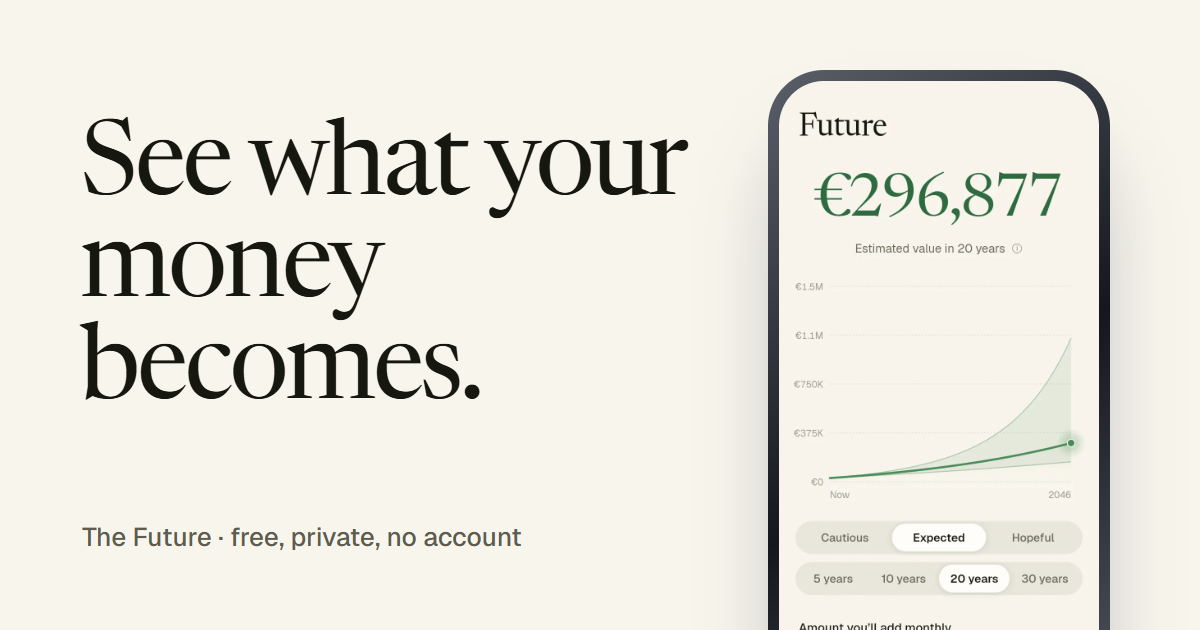
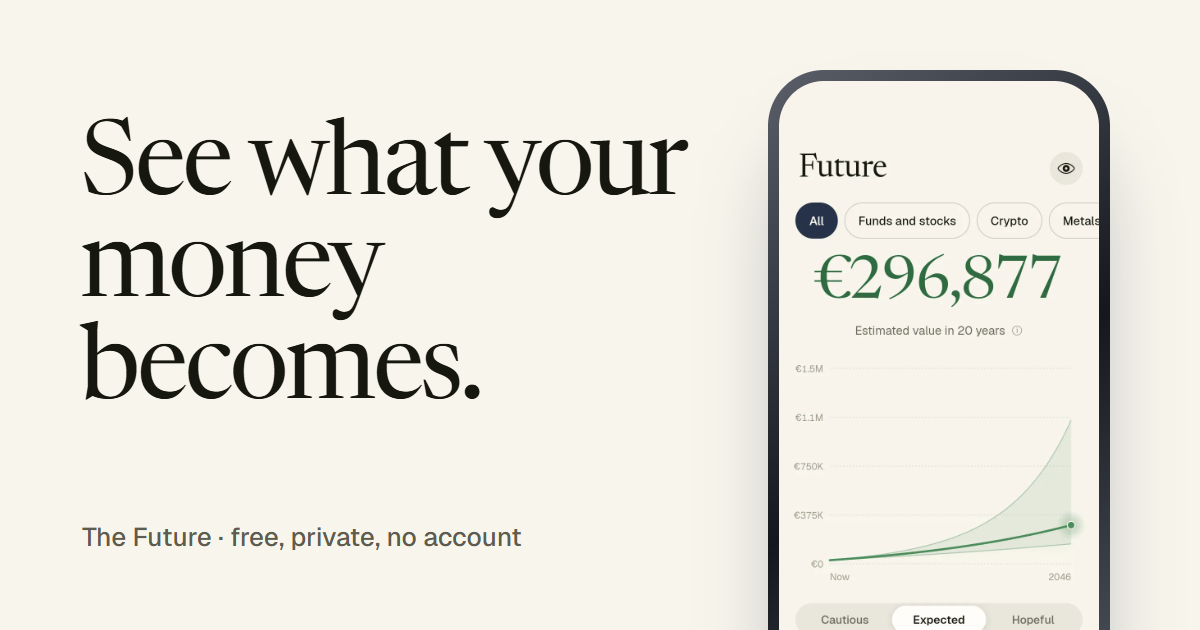
feat: compare the plan with a savings account in the app and on the landing page
Same money and monthly amount, kept as cash, in a savings account (1.25%, Raiffeisen Online Sparen, editable) or invested. Landing screenshots redone with the new icon.

diff --git a/lib/ui/savings.dart b/lib/ui/savings.dart
@@ -1,0 +1,100 @@
+import 'package:flutter/widgets.dart';
+
+import '../format.dart';
+import '../projection.dart';
+import '../state.dart';
+import '../theme.dart';
+import 'lists.dart';
+
+/// The same money three ways, in plain words: kept as cash, in a savings
+/// account, or invested as planned. Bars grow from zero so the gap is the point.
+class SavingsCompare extends StatelessWidget {
+  const SavingsCompare(this.state, {super.key, required this.plan, required this.cautious, required this.savings});
+
+  final AppState state;
+  final Projection plan;
+  final Projection cautious;
+  final Projection savings;
+
+  @override
+  Widget build(BuildContext context) {
+    final cash = plan.contributed.last;
+    final top = [plan.end, savings.end, cash].reduce((a, b) => a > b ? a : b);
+    final gap = plan.end - savings.end;
+    final rate = state.savingsRate;
+    final rateText = '${rate.toStringAsFixed(rate % 1 == 0 ? 0 : (rate * 10) % 1 == 0 ? 1 : 2)}%';
+    final bank = rate == defaultSavingsRate ? 'a Raiffeisen savings account' : 'a savings account at $rateText';
+    return Group(
+      header: 'VERSUS A SAVINGS ACCOUNT',
+      footer: 'Savings rate: $rateText a year, what Raiffeisen Online Sparen pays at several regional banks in October 2026. Other banks pay more or less, so you can change it under Assumptions. Before tax. Savings are protected up to €100,000; investments can lose value.',
+      children: [
+        Padding(
+          padding: const EdgeInsets.fromLTRB(18, 18, 18, 8),
+          child: Column(
+            crossAxisAlignment: CrossAxisAlignment.start,
+            children: [
+              Text(
+                gap >= 0 ? 'Investing as planned ends ${eur(gap)} ahead of $bank.' : 'In this case $bank ends ${eur(-gap)} ahead.',
+                style: serif(24, height: 1.12, tracking: -0.4),
+              ),
+              const SizedBox(height: 6),
+              Text('Same money, same ${eur(state.monthly)} a month, ${state.years} years.', style: sans(13.5, color: C.ink2)),
+              const SizedBox(height: 20),
+              _Bar('Kept as cash', 'No growth, just what you put in', cash, top, C.sand),
+              _Bar('Savings account', 'Grows slowly and safely', savings.end, top, C.navy),
+              _Bar('Invested as planned', 'Grows more, with ups and downs', plan.end, top, C.green, strong: true),
+              const SizedBox(height: 6),
+              Text(
+                cautious.end < savings.end ? 'In the cautious case it would end ${eur(savings.end - cautious.end)} behind. That is the price of a higher return.' : 'Even in the cautious case it ends ${eur(cautious.end - savings.end)} ahead.',
+                style: sans(13, color: C.ink2, height: 1.4),
+              ),
+            ],
+          ),
+        ),
+      ],
+    );
+  }
+}
+
+class _Bar extends StatelessWidget {
+  const _Bar(this.title, this.note, this.value, this.top, this.color, {this.strong = false});
+
+  final String title;
+  final String note;
+  final double value;
+  final double top;
+  final Color color;
+  final bool strong;
+
+  @override
+  Widget build(BuildContext context) => Padding(
+        padding: const EdgeInsets.only(bottom: 16),
+        child: Column(
+          crossAxisAlignment: CrossAxisAlignment.start,
+          children: [
+            Row(
+              crossAxisAlignment: CrossAxisAlignment.baseline,
+              textBaseline: TextBaseline.alphabetic,
+              children: [
+                Expanded(child: Text(title, style: sans(15, weight: strong ? FontWeight.w500 : FontWeight.w400))),
+                Text(eur(value), style: figures(sans(16, weight: FontWeight.w500, color: strong ? C.greenInk : C.ink))),
+              ],
+            ),
+            const SizedBox(height: 2),
+            Text(note, style: sans(12.5, color: C.ink2)),
+            const SizedBox(height: 8),
+            TweenAnimationBuilder<double>(
+              tween: Tween(begin: 0, end: top <= 0 ? 0 : (value / top).clamp(0, 1)),
+              duration: const Duration(milliseconds: 700),
+              curve: Curves.easeOutCubic,
+              builder: (_, f, _) => Container(
+                height: 10,
+                alignment: Alignment.centerLeft,
+                decoration: BoxDecoration(color: C.ink.withValues(alpha: 0.06), borderRadius: BorderRadius.circular(5)),
+                child: FractionallySizedBox(widthFactor: f, heightFactor: 1, child: DecoratedBox(decoration: BoxDecoration(color: color, borderRadius: BorderRadius.circular(5)))),
+              ),
+            ),
+          ],
+        ),
+      );
+}

diff --git a/lib/state.dart b/lib/state.dart
@@ -48,6 +48,7 @@ class AppState extends ChangeNotifier with WidgetsBindingObserver {
   bool realTerms = false;
   double raisePercent = 0;
   double inflation = defaultInflation;
+  double savingsRate = defaultSavingsRate;
   Returns returns = {for (final e in defaultReturns.entries) e.key: [...e.value]};
   List<OneOffEntry> oneOffs = [];
 
@@ -89,6 +90,22 @@ class AppState extends ChangeNotifier with WidgetsBindingObserver {
       monthly: monthlyAmount ?? monthly,
       months: (yearsAhead ?? years) * 12,
       yearlyReturn: {for (final k in Kind.values) k: returns[k]![scenario]},
+      raisePercent: raisePercent,
+      oneOffs: _oneOffsNow,
+      realTerms: realTerms,
+      inflation: inflation,
+    );
+  }
+
+  /// The same money and the same monthly amount, left in a savings account.
+  Projection savingsFor() {
+    final s = snapshot!;
+    return project(
+      start: {for (final k in active) k: s.valueOf(k)},
+      mix: s.mixFor(active),
+      monthly: monthly,
+      months: years * 12,
+      yearlyReturn: {for (final k in Kind.values) k: savingsRate},
       raisePercent: raisePercent,
       oneOffs: _oneOffsNow,
       realTerms: realTerms,
@@ -230,6 +247,7 @@ class AppState extends ChangeNotifier with WidgetsBindingObserver {
     realTerms = false;
     raisePercent = 0;
     inflation = defaultInflation;
+    savingsRate = defaultSavingsRate;
     returns = {for (final e in defaultReturns.entries) e.key: [...e.value]};
     notifyListeners();
   }
@@ -275,6 +293,7 @@ class AppState extends ChangeNotifier with WidgetsBindingObserver {
     bool? realTerms,
     double? raisePercent,
     double? inflation,
+    double? savingsRate,
     Returns? returns,
     List<OneOffEntry>? oneOffs,
   }) {
@@ -284,6 +303,7 @@ class AppState extends ChangeNotifier with WidgetsBindingObserver {
     this.realTerms = realTerms ?? this.realTerms;
     this.raisePercent = raisePercent ?? this.raisePercent;
     this.inflation = inflation ?? this.inflation;
+    this.savingsRate = savingsRate ?? this.savingsRate;
     this.returns = returns ?? this.returns;
     this.oneOffs = oneOffs ?? this.oneOffs;
     notifyListeners();
@@ -302,6 +322,7 @@ class AppState extends ChangeNotifier with WidgetsBindingObserver {
         'real': realTerms,
         'raise': raisePercent,
         'inflation': inflation,
+        'savings': savingsRate,
         'returns': {for (final e in returns.entries) e.key.name: e.value},
         'oneOffs': [
           for (final o in oneOffs) [o.year, o.month, o.amount],
@@ -321,6 +342,7 @@ class AppState extends ChangeNotifier with WidgetsBindingObserver {
       realTerms = j['real'] as bool? ?? false;
       raisePercent = (j['raise'] as num?)?.toDouble() ?? 0;
       inflation = (j['inflation'] as num?)?.toDouble() ?? defaultInflation;
+      savingsRate = (j['savings'] as num?)?.toDouble() ?? defaultSavingsRate;
       final r = j['returns'] as Map<String, dynamic>?;
       if (r != null) {
         returns = {

diff --git a/landing/index.html b/landing/index.html
@@ -42,7 +42,7 @@
     <section id="try">
       <div class="wrap">
         <h2 class="head" data-blur>Add a little more each month.</h2>
-        <p class="rise">This is the same calculation the app runs, with a plain start amount instead of your portfolio. Slide, and the twenty years change.</p>
+        <p class="rise">This is the same calculation the app runs, with a plain start amount instead of your portfolio. Slide, and the twenty years change, next to the same money in a savings account.</p>
 
         <form class="calc" id="calc" autocomplete="off">
           <div>
@@ -60,6 +60,10 @@
                 <label><input type="radio" name="years" value="30"><span>30</span></label>
               </div>
             </fieldset>
+            <label class="field" for="rate"><span class="lab">A savings account pays</span>
+              <span class="money"><input id="rate" inputmode="decimal" value="1.25" aria-label="Savings account interest in percent a year"><span aria-hidden="true">% a year</span></span>
+              <small class="hint">1.25% is what Raiffeisen Online Sparen pays at several regional banks (October 2026). Other banks pay more or less. Before tax.</small>
+            </label>
             <fieldset class="field"><legend>How it goes</legend>
               <div class="seg">
                 <label><input type="radio" name="case" value="0"><span>Cautious</span></label>
@@ -79,6 +83,12 @@
               <li><span>You add <small id="addNote" style="color:var(--ink-3)"></small></span><span class="num" id="add">+€75,000</span></li>
               <li class="grow"><span>It grows by</span><span class="num" id="grow">+€0</span></li>
             </ul>
+            <div class="vs" aria-live="polite">
+              <p class="vs-h" id="vsHead">Investing ends ahead of a savings account.</p>
+              <div class="bar"><div><span>Kept as cash</span><span class="num" id="vsCash"></span></div><i><b id="bCash" class="sand"></b></i></div>
+              <div class="bar"><div><span>Savings account</span><span class="num" id="vsSave"></span></div><i><b id="bSave" class="navy"></b></i></div>
+              <div class="bar"><div><span>Invested</span><span class="num green" id="vsInv"></span></div><i><b id="bInv" class="green"></b></i></div>
+            </div>
             <p class="note">Cautious, expected and hopeful mean 3%, 6.5% and 9% a year, as for a world ETF. Crypto has its own, much wider range in the app, and you can change all of them. A projection, not a forecast: taxes and fees are left out, and you can lose money.</p>
           </div>
         </form>

diff --git a/lib/screens/plan.dart b/lib/screens/plan.dart
@@ -44,7 +44,7 @@ class _Round extends StatelessWidget {
       );
 }
 
-String _pct(double v) => '${v < 0 ? '−' : ''}${v.abs().toStringAsFixed(v % 1 == 0 ? 0 : 1)}%';
+String _pct(double v) => '${v < 0 ? '−' : ''}${v.abs().toStringAsFixed(v % 1 == 0 ? 0 : (v * 10) % 1 == 0 ? 1 : 2)}%';
 
 /// Returns per asset type and scenario, inflation and the yearly raise.
 class AssumptionsSheet extends StatelessWidget {
@@ -82,6 +82,7 @@ class AssumptionsSheet extends StatelessWidget {
                       trailing: Switch2(on: state.realTerms, onChanged: (v) => state.setPlan(realTerms: v)),
                     ),
                     Row2(title: 'Inflation', trailing: _Stepper(text: _pct(state.inflation), onMinus: () => state.setPlan(inflation: (state.inflation - 0.5).clamp(0, 10)), onPlus: () => state.setPlan(inflation: (state.inflation + 0.5).clamp(0, 10)))),
+                    Row2(title: 'Savings account rate', subtitle: 'What the comparison with a savings account pays a year', trailing: _Stepper(text: _pct(state.savingsRate), onMinus: () => state.setPlan(savingsRate: (state.savingsRate - 0.25).clamp(0, 10)), onPlus: () => state.setPlan(savingsRate: (state.savingsRate + 0.25).clamp(0, 10)))),
                     Row2(title: 'Yearly raise', subtitle: 'Add more each year, such as with your pay', trailing: _Stepper(text: _pct(state.raisePercent), onMinus: () => state.setPlan(raisePercent: (state.raisePercent - 1).clamp(0, 30)), onPlus: () => state.setPlan(raisePercent: (state.raisePercent + 1).clamp(0, 30)))),
                   ],
                 ),
@@ -102,7 +103,7 @@ class AssumptionsSheet extends StatelessWidget {
               SliverToBoxAdapter(
                 child: Padding(
                   padding: const EdgeInsets.fromLTRB(20, 0, 20, 0),
-                  child: AppButton('Back to defaults', filled: false, onTap: () => state.setPlan(returns: {for (final e in defaultReturns.entries) e.key: [...e.value]}, inflation: defaultInflation, raisePercent: 0, realTerms: false)),
+                  child: AppButton('Back to defaults', filled: false, onTap: () => state.setPlan(returns: {for (final e in defaultReturns.entries) e.key: [...e.value]}, inflation: defaultInflation, savingsRate: defaultSavingsRate, raisePercent: 0, realTerms: false)),
                 ),
               ),
               SliverToBoxAdapter(child: SizedBox(height: 40 + browserSafeArea().bottom)),

diff --git a/landing/assets/site.js b/landing/assets/site.js
@@ -76,6 +76,15 @@ if (form) {
     $('grow').textContent = '+' + eur(end - start - put);
     $('addNote').textContent = eur(monthly) + ' a month for ' + years + ' years';
 
+    // Versus a savings account: same money, same months, a lower and safer return.
+    const rate = Math.min(10, Math.max(0, parseFloat($('rate').value.replace(',', '.')) || 0));
+    const save = series(start, monthly, months, rate)[months];
+    const cash = start + put;
+    const top = Math.max(end, save, cash) || 1;
+    $('vsCash').textContent = eur(cash); $('vsSave').textContent = eur(save); $('vsInv').textContent = eur(end);
+    $('bCash').style.width = (cash / top) * 100 + '%'; $('bSave').style.width = (save / top) * 100 + '%'; $('bInv').style.width = (end / top) * 100 + '%';
+    $('vsHead').textContent = end >= save ? 'Investing ends ' + eur(end - save) + ' ahead of a savings account.' : 'In this case the savings account ends ' + eur(save - end) + ' ahead.';
+
     // Chart: band between cautious and hopeful, the picked case as the line.
     const W = Math.round($('chart').getBoundingClientRect().width) || 640, H = W < 480 ? 250 : 300, L = 46, T = 10, B = 28, R = 12;
     $('chart').setAttribute('viewBox', '0 0 ' + W + ' ' + H);

diff --git a/landing/assets/site.css b/landing/assets/site.css
@@ -145,3 +145,19 @@ footer p { max-width: 62em; }
   .js .w, .js .rise { opacity: 1; filter: none; transform: none; transition: none; }
   .btn { transition: none; }
 }
+
+/* Versus a savings account */
+.hint { display: block; margin-top: 10px; font-size: 15px; color: var(--ink-3); line-height: 1.45; }
+.money input#rate { padding: 0 8px 0 0; flex: 0 0 4.2em; }
+.vs { margin-top: 34px; }
+.vs-h { font-family: var(--serif); font-size: 26px; line-height: 1.15; letter-spacing: -0.015em; margin: 0 0 18px; }
+.bar { margin-bottom: 16px; }
+.bar > div { display: flex; justify-content: space-between; gap: 16px; font-size: 16px; margin-bottom: 8px; }
+.bar .num { font-weight: 500; }
+.bar .green { color: var(--green-ink); }
+.bar i { display: block; height: 10px; border-radius: 5px; background: rgba(22, 23, 15, 0.07); overflow: hidden; }
+.bar b { display: block; height: 100%; border-radius: 5px; transition: width 0.6s cubic-bezier(0.2, 0.7, 0.2, 1); }
+.bar b.sand { background: #c7b58c; }
+.bar b.navy { background: #263248; }
+.bar b.green { background: #4a8b5a; }
+@media (prefers-reduced-motion: reduce) { .bar b { transition: none; } }

diff --git a/test/state_test.dart b/test/state_test.dart
@@ -46,4 +46,16 @@ void main() {
     expect(again.hide, isTrue);
     expect(hideAmounts, isTrue);
   });
+
+  test('a savings account ends between cash and the plan, and the rate is remembered', () async {
+    final s = await demo();
+    await Future<void>.delayed(Duration.zero);
+    final plan = s.projectionFor(1), save = s.savingsFor();
+    expect(save.end, greaterThan(plan.contributed.last));
+    expect(save.end, lessThan(plan.end));
+    s.setPlan(savingsRate: 0);
+    expect(s.savingsFor().end, closeTo(plan.contributed.last, 0.01));
+    final again = await demo({'plan': '{"savings":2.5}'});
+    expect(again.savingsRate, 2.5);
+  });
 }

diff --git a/lib/screens/future.dart b/lib/screens/future.dart
@@ -10,6 +10,7 @@ import '../ui/chrome.dart';
 import '../ui/filter.dart';
 import '../ui/lists.dart';
 import '../ui/ruler.dart';
+import '../ui/savings.dart';
 import 'plan.dart';
 
 const _scenarioNames = ['Cautious', 'Expected', 'Hopeful'];
@@ -129,6 +130,7 @@ class FuturePage extends StatelessWidget {
                   ],
                 ),
               ),
+              SliverToBoxAdapter(child: SavingsCompare(state, plan: mid, cautious: low, savings: state.savingsFor())),
               SliverToBoxAdapter(
                 child: Group(
                   header: 'YOUR PLAN',

diff --git a/lib/projection.dart b/lib/projection.dart
@@ -13,6 +13,10 @@ const defaultReturns = <Kind, List<double>>{
 
 const defaultInflation = 2.0;
 
+/// What a plain savings account pays a year, in percent. Raiffeisen's online
+/// daily-savings rate at several regional banks, October 2026.
+const defaultSavingsRate = 1.25;
+
 class OneOff {
   const OneOff(this.monthsFromNow, this.amount);
 
